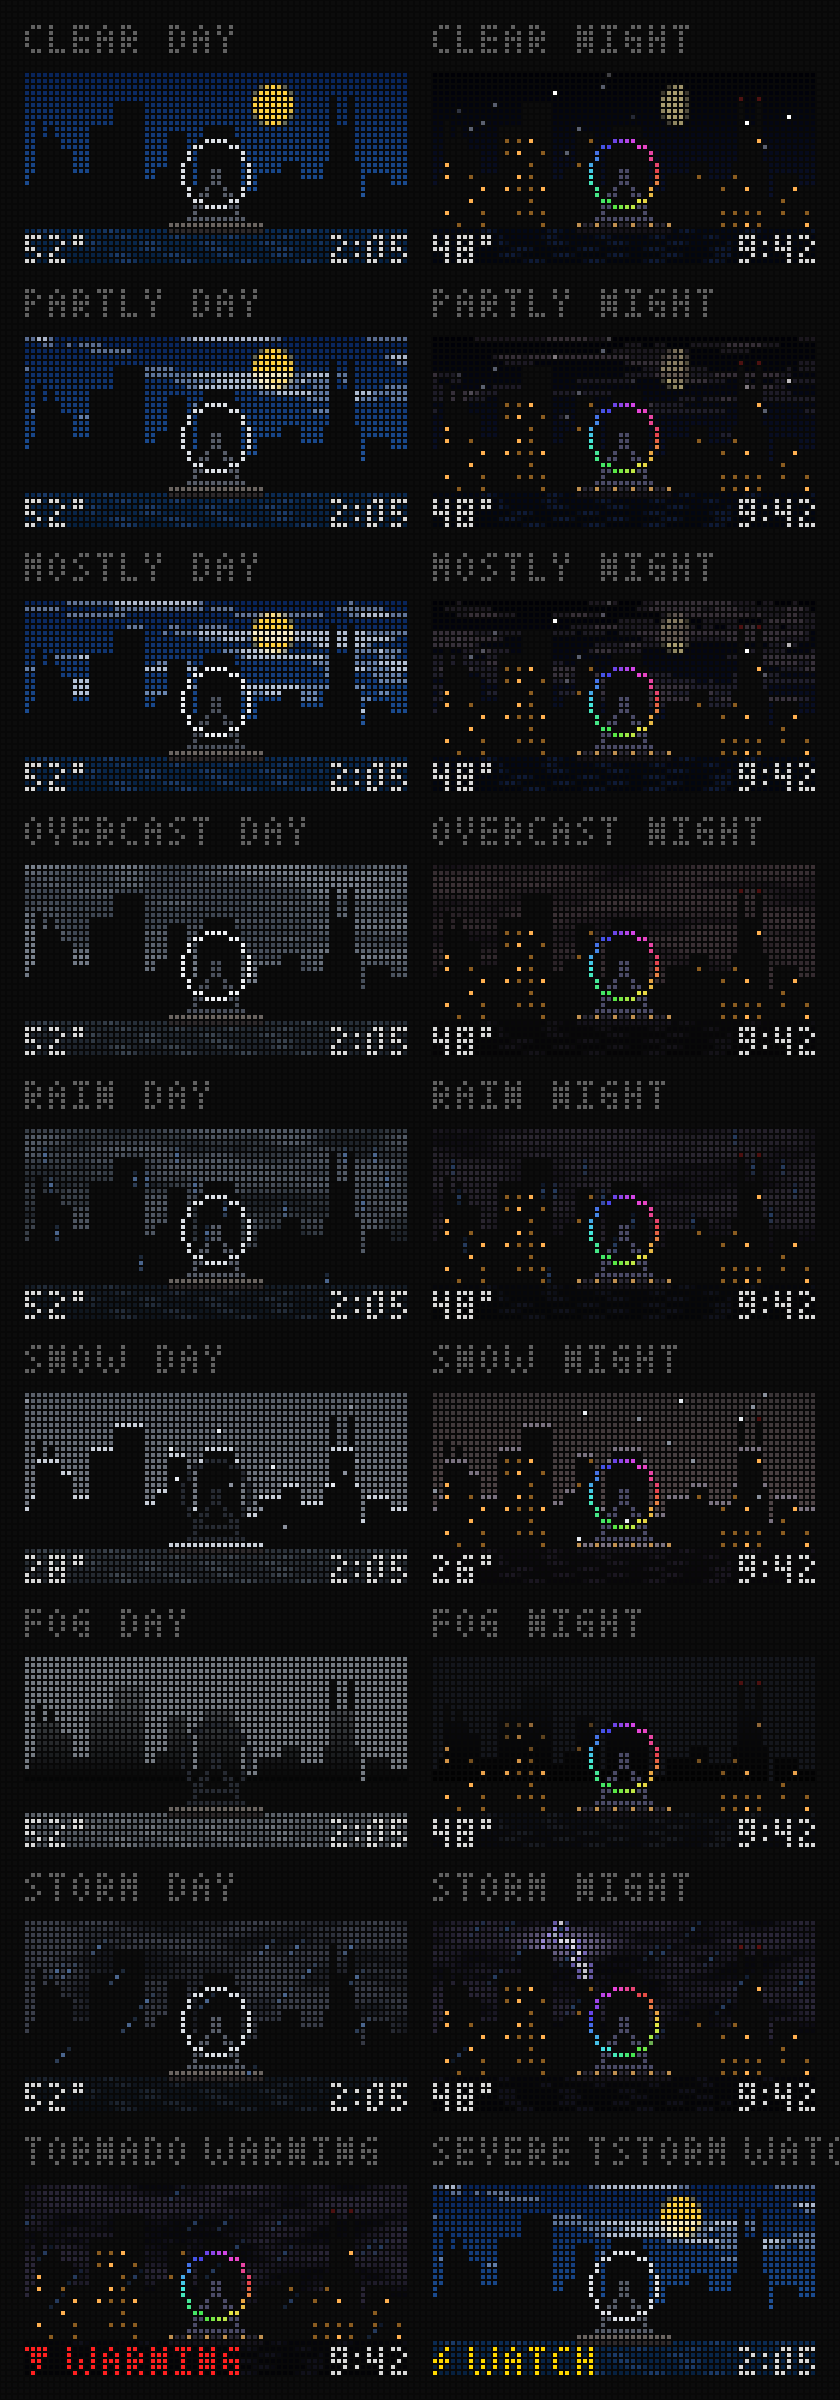
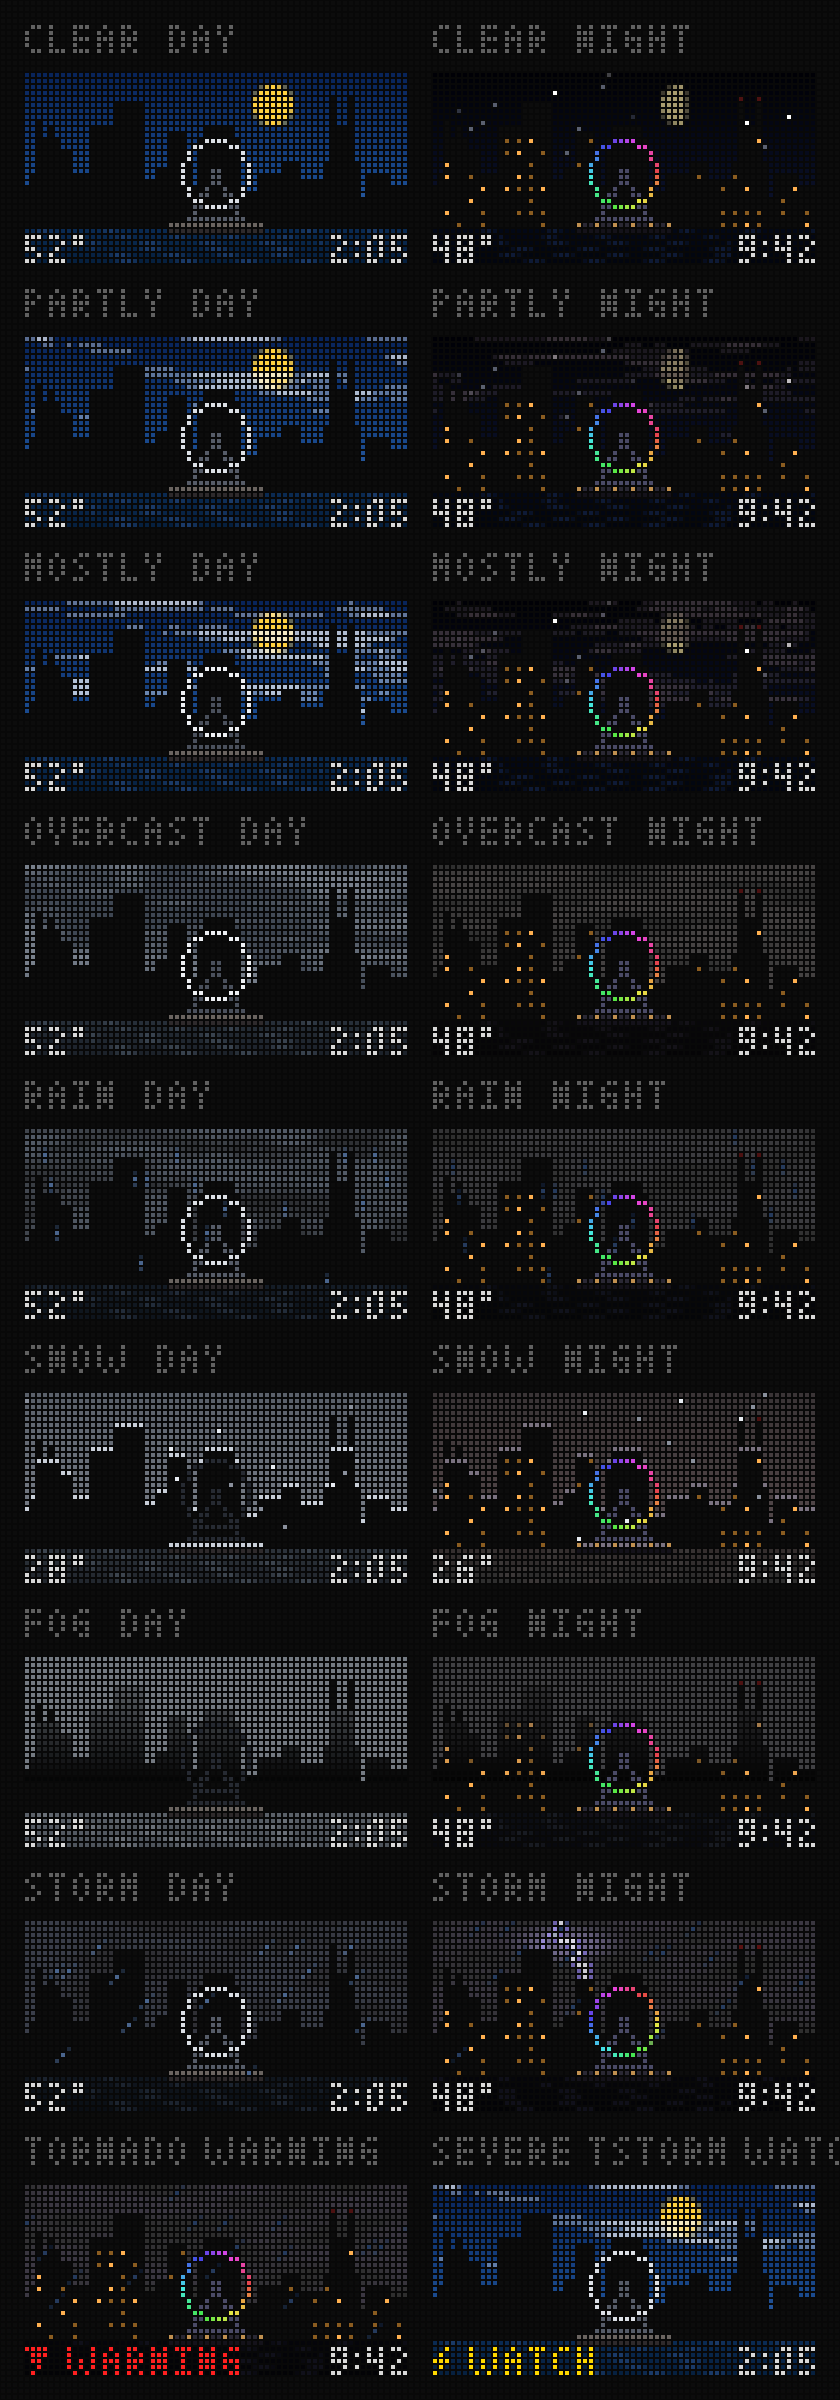
Skyline: night colors kept off the panel's bottom levels; red sailboat
One rule for the panel (S3 night curve): every channel off or at level 3+,
dark colors near neutral so the channels step together. Below that a grey
bands into black, magenta and red, and the lowest levels go unsteady when
the board dims.

- Overcast night sky 3-8 (was 0-2), deck 3-9 (was 0-5).
- Rain night sky 3-6 (was 0-2), deck 3-6.
- Storm night sky 3-5 (was 0-2), deck 3-8 violet: still the darkest.
- Fog night a flat 7 (was ~0-1): fog glows with city light.
- Snow night lake tinted toward the sky (4-3, ripples 6; was 0 with
  magenta ripples).
- Rain and storm by day: sky tops and thick-deck ends lifted to 3.
- Other night water left dark (faint ripples are intended).

Sailboat hull red (#c02828 deck, #7a1818 keel; was brown).

Claude-Session: https://claude.ai/code/session_01G1nRWyBJ5H2pgpEftGbAir

diff --git a/server/board/skyline.js b/server/board/skyline.js
@@ -56,20 +56,27 @@ function clearSky(el) {
 }
 
 // ---- other weather: a day and a night look, blended across 1° to -6° ----
-// The night snow sky (city light off the snow clouds) stays well above the
-// panel's bottom levels, a warm grey whose channels step nearly together: a
-// dimmer one (levels 0-5) broke into black, magenta and red bands on the board.
+// Night colors follow one rule for the panel (S3 night curve, gamma 2.6):
+// every channel is either off or at level 3 or more, and dark colors stay
+// near neutral so the channels step together. Below that, a grey breaks into
+// black, magenta and red bands (each channel rounds to a whole level on a
+// different row) and the lowest levels are the first to go unsteady when the
+// board dims. Night skies: overcast 3-8 (the city's glow on the clouds), rain
+// 3-6, storm 3-5 (darkest, so lightning stands out), fog a flat 7, snow 5-15
+// with the lake tinted toward it (4-3, ripples 6). Cloud decks run 3 (thick)
+// to the sky's brightest; rain and storm by day keep the same floor. The
+// other night water stays dark (its ripples are meant to be faint).
 const LOOKS = {
   overcast: { day: { sky: [[0, '#4a525e'], [25, '#6a727e']], water: ['#262e38', '#1c222a', '#38424e'] },
-    night: { sky: [[0, '#0c0a0e'], [25, '#2a2226']], water: ['#08070a', '#050406', '#141218'] } },
-  rain: { day: { sky: [[0, '#262c34'], [25, '#3c444e']], water: ['#141c26', '#0e141c', '#222c3a'] },
-    night: { sky: [[0, '#08080e'], [25, '#1e1a24']], water: ['#06070c', '#040508', '#10121c'] } },
+    night: { sky: [[0, '#2e2e2e'], [25, '#434040']], water: ['#08070a', '#050406', '#141218'] } },
+  rain: { day: { sky: [[0, '#2e3238'], [25, '#3c444e']], water: ['#141c26', '#0e141c', '#222c3a'] },
+    night: { sky: [[0, '#2e2e2e'], [25, '#3c3c40']], water: ['#06070c', '#040508', '#10121c'] } },
   snow: { day: { sky: [[0, '#5a606a'], [25, '#7c828c']], water: ['#2c323a', '#22272e', '#3c444e'], roof: '#c8ced8' },
-    night: { sky: [[0, '#3a3436'], [25, '#564a4c']], water: ['#0c0a0e', '#08070a', '#1a1620'], roof: '#7a7280' } },
+    night: { sky: [[0, '#3a3436'], [25, '#564a4c']], water: ['#342e2e', '#2e2e2e', '#3c3838'], roof: '#7a7280' } },
   fog: { day: { sky: [[0, '#747a82'], [25, '#747a82']], water: ['#5a6068', '#4e545c', '#6a7078'] },
-    night: { sky: [[0, '#14161c'], [25, '#14161c']], water: ['#0c0e14', '#08090e', '#181b22'] } },
-  storm: { day: { sky: [[0, '#1c2028'], [25, '#30363e']], water: ['#10161e', '#0a0e14', '#1c2430'] },
-    night: { sky: [[0, '#0a0a14'], [25, '#1a1626']], water: ['#05050a', '#030306', '#10101a'] } },
+    night: { sky: [[0, '#404043'], [25, '#404043']], water: ['#0c0e14', '#08090e', '#181b22'] } },
+  storm: { day: { sky: [[0, '#2e2e34'], [25, '#30363e']], water: ['#10161e', '#0a0e14', '#1c2430'] },
+    night: { sky: [[0, '#2e2e2e'], [25, '#343438']], water: ['#05050a', '#030306', '#10101a'] } },
 };
 const CLEAR_FAMILY = new Set(['clear', 'partly', 'mostly']);
 
@@ -107,9 +114,9 @@ const WISP_KEYS = [[6, '#eef2f8'], [1, '#ffc8a8'], [-3, '#8a6a80'], [-6, '#4a404
 const STRIPS = {
   partly: { id: 'p1', a: [35, 70] },
   mostly: { id: 'm1', a: [38, 72] },
-  overcast: { id: 'o1', day: ['#78808c', '#3e4652'], night: ['#3a3034', '#141016'] },
-  rain: { id: 'r1', day: ['#525a66', '#1e232a'], night: ['#2a2630', '#0e0c12'] },
-  storm: { id: 's1', day: ['#3a3e4a', '#14161c'], night: ['#2a2638', '#08080e'] },
+  overcast: { id: 'o1', day: ['#78808c', '#3e4652'], night: ['#464343', '#2e2e2e'] },
+  rain: { id: 'r1', day: ['#525a66', '#2e3034'], night: ['#3c3c40', '#2e2e2e'] },
+  storm: { id: 's1', day: ['#3a3e4a', '#2e2e32'], night: ['#3c3843', '#2e2e2e'] },
 };
 function keyed(keys, el) {
   if (el >= keys[0][0]) return keys[0][1];

diff --git a/server/board/skyline-draw.test.js b/server/board/skyline-draw.test.js
@@ -125,7 +125,7 @@ test('boats: the sailboat on :00 and :30, the speedboat out and back on :15 and 
   assert.equal(boatAt(q + 5 * 60000), null);
   // Drawn only when the payload allows boats.
   const sky = toSkyline({ temp: 52, code: 0, clouds: 5 }, { ...PLACE, now: q / 1000, temp: 52 });
-  const hull = (f) => { let n = 0; for (let x = 0; x < 64; x++) if (px(f, x, 25) === '#8a4a24') n++; return n; };
+  const hull = (f) => { let n = 0; for (let x = 0; x < 64; x++) if (px(f, x, 25) === '#c02828') n++; return n; };
   assert.equal(hull(draw({}, q / 1000, { ms: q + 20000, sky })), 6);
   assert.equal(hull(draw({}, q / 1000, { ms: q + 20000, sky: { ...sky, boats: 0 } })), 0);
 });

diff --git a/server/board/draw.js b/server/board/draw.js
@@ -1693,7 +1693,7 @@
       wheelNight: '#4a4a66', pier: { day: ['#6a6460', '#2e2a2c'], night: ['#2a2834', '#14121a'], bulb: '#c09050' },
       win: ['#8a5c20', '#ffb050'], beacon: ['#401010', '#ff2020'], moon: '#a89c70',
       rain: { day: ['#5a7aaa', '#3a5070'], night: ['#2c4468', '#1e3050'] }, snow: ['#8a909c', '#e8ecf2'],
-      sail: '#e8ecf0', hull: ['#8a4a24', '#5a2e16'],
+      sail: '#e8ecf0', hull: ['#c02828', '#7a1818'],
       seadog: { Y: '#ffb020', p: '#3a5aa8', q: '#d8dce4', O: '#d86a10' }, spray: '#f4f8fc',
       glow: '#8a80b0', boltSoft: '#b8b0e8',
     };

diff --git a/firmware-s3/ctaboard/src/draw.cpp b/firmware-s3/ctaboard/src/draw.cpp
@@ -2208,7 +2208,7 @@ const RGB WHEEL_NIGHT = hexc(0x4a4a66), PIER_DAY0 = hexc(0x6a6460), PIER_DAY1 = 
           PIER_NIGHT1 = hexc(0x14121a), PIER_BULB = hexc(0xc09050), WIN_DIM = hexc(0x8a5c20), WIN_BRIGHT = hexc(0xffb050),
           BEACON0 = hexc(0x401010), BEACON1 = hexc(0xff2020), MOON = hexc(0xa89c70), RAIN_DAY0 = hexc(0x5a7aaa),
           RAIN_DAY1 = hexc(0x3a5070), RAIN_NIGHT0 = hexc(0x2c4468), RAIN_NIGHT1 = hexc(0x1e3050), SNOW0 = hexc(0x8a909c),
-          SNOW1 = hexc(0xe8ecf2), SAIL = hexc(0xe8ecf0), HULL0 = hexc(0x8a4a24), HULL1 = hexc(0x5a2e16), SPRAY = hexc(0xf4f8fc),
+          SNOW1 = hexc(0xe8ecf2), SAIL = hexc(0xe8ecf0), HULL0 = hexc(0xc02828), HULL1 = hexc(0x7a1818), SPRAY = hexc(0xf4f8fc),
           GLOW = hexc(0x8a80b0), BOLT_SOFT = hexc(0xb8b0e8), STAR_BRIGHT = hexc(0xffffff), STAR_DIM = hexc(0x5a6070);
 const char *const SEADOG[3] = {"..pqpqpqpqpqp.", "YYYYYYYYYYYYYY", ".OOOOOOOOOOOO."};
 const char *const SAILS[4] = {"..#...", "..##..", "..###.", "..####"};

diff --git a/docs/board/design-spec.md b/docs/board/design-spec.md
@@ -588,7 +588,7 @@ Ambient and slow, on a 100 ms tick:
 ### Boats
 A boat crosses the lake **at every quarter hour**, by day only, alternating: the sailboat on :00 and :30, the speedboat on :15 and :45. Mockups: [`boat.png`](mockups/weather/lake/boat.png), [`speedboat.png`](mockups/weather/lake/speedboat.png).
 
-- **Sailboat:** a white sail `#e8ecf0` on rows 21–24 (mast on the leading side), in front of the city; a brown hull on rows 25–26 (6 px deck row `#8a4a24`, 4 px keel row `#5a2e16`). Starts off-panel at the quarter hour and moves 1 px every 800 ms (about 56 s edge to edge). Left on :00, right on :30.
+- **Sailboat:** a white sail `#e8ecf0` on rows 21–24 (mast on the leading side), in front of the city; a red hull on rows 25–26 (6 px deck row `#c02828`, 4 px keel row `#7a1818`). Starts off-panel at the quarter hour and moves 1 px every 800 ms (about 56 s edge to edge). Left on :00, right on :30.
 - **Speedboat** (loosely the Seadog tour boat): three rows: blue and white passengers (row 24), a 14 px yellow deck `#ffc020` with the bow raked forward (row 25) and a white bottom (row 26), with a white spray plume trailing behind (9 / 6 / 3 px on rows 26 / 25 / 24, fading out). No helm or windshield. Fast: 1 px every 150 ms, about 13 s across including the plume. It runs out left, **turns around off-panel**, waits about 4 s, and comes back heading right; one round trip of about 30 s.
 - Both sit entirely above the text rows, so they never hide behind it; they pass in front of the pier and wheel and are drawn from the board's clock, so no fetch is needed.
 - **When:** sun above 0°, no rain, snow, fog or thunderstorm, and 40°F or warmer. The server sends `boats` true or false.
